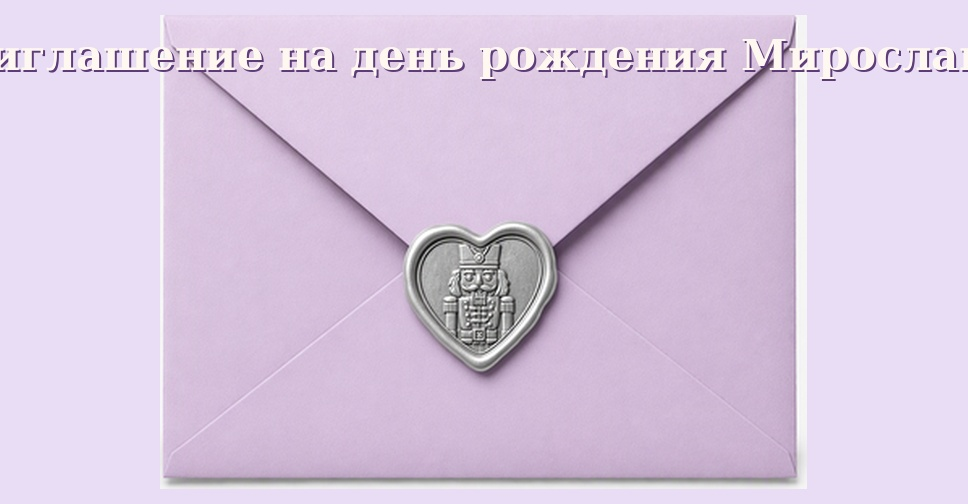
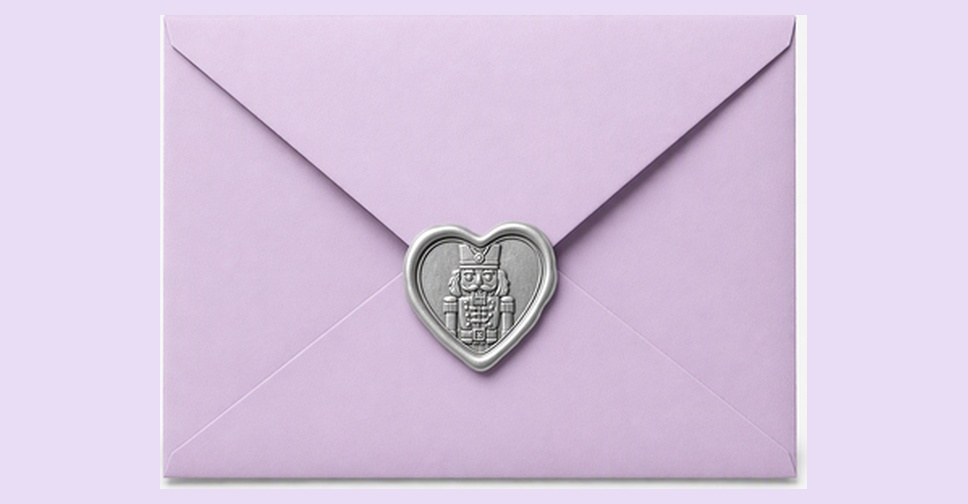
rev16

Changed region(s): [[0.0, 0.0595, 1.0, 0.1786]]

diff --git a/index.html b/index.html
@@ -6,10 +6,10 @@
 <title>Мирочка приглашает!</title>
 
 <!-- Open Graph / Превью ссылки -->
-<meta property="og:title" content="Мирочка приглашает!">
+<meta property="og:title" content="Приглашение на день рождения Мирославы!">
 <meta property="og:description" content="Приглашение на день рождения Мирославы! 4 годика · 12 декабря · балет Щелкунчик">
-<meta property="og:image" content="https://miroslavasysoeva.ru/og_preview.jpg?v=23">
-<meta property="og:image:secure_url" content="https://miroslavasysoeva.ru/og_preview.jpg?v=23">
+<meta property="og:image" content="https://miroslavasysoeva.ru/og_preview.jpg?v=24">
+<meta property="og:image:secure_url" content="https://miroslavasysoeva.ru/og_preview.jpg?v=24">
 <meta property="og:image:width" content="968">
 <meta property="og:image:height" content="504">
 <meta property="og:image:alt" content="Приглашение на день рождения Мирославы">
@@ -21,13 +21,13 @@
 <meta name="twitter:card" content="summary_large_image">
 <meta name="twitter:title" content="Мирочка приглашает!">
 <meta name="twitter:description" content="Приглашение на день рождения Мирославы! 4 годика · 12 декабря · балет Щелкунчик">
-<meta name="twitter:image" content="https://miroslavasysoeva.ru/og_preview.jpg?v=23">
+<meta name="twitter:image" content="https://miroslavasysoeva.ru/og_preview.jpg?v=24">
 <meta name="theme-color" content="#b39ddb">
 <meta http-equiv="Cache-Control" content="no-cache, no-store, must-revalidate, max-age=0">
 <meta http-equiv="Pragma" content="no-cache">
 <meta http-equiv="Expires" content="-1">
 <!-- VK / Mail.ru / MAX -->
-<link rel="image_src" href="https://miroslavasysoeva.ru/og_preview.jpg?v=23">
+<link rel="image_src" href="https://miroslavasysoeva.ru/og_preview.jpg?v=24">
 <meta name="mrc-shareable" content="true">
 <meta name="mrc-video" content="false">
 <link href="https://fonts.googleapis.com/css2?family=Marck+Script&family=Comfortaa:wght@400;700&display=swap" rel="stylesheet">
@@ -293,13 +293,13 @@
 
 <meta itemprop="name" content="Мирочка приглашает!">
 <meta itemprop="description" content="Приглашение на день рождения Мирославы! 4 годика · 12 декабря · балет Щелкунчик">
-<meta itemprop="image" content="https://miroslavasysoeva.ru/og_preview.jpg?v=23">
+<meta itemprop="image" content="https://miroslavasysoeva.ru/og_preview.jpg?v=24">
 
 <div class="wrap">
   <div class="env" id="env">
     <div class="card" id="card">
       <div class="card-head">
-        <div class="avatar"><img src="avatar_processed.png?v=50" alt="Мирослава"></div>
+        <div class="avatar"><img src="avatar_processed.png?v=52" alt="Мирослава"></div>
         <h1>Мне 4 годика!</h1>
       </div>
 
